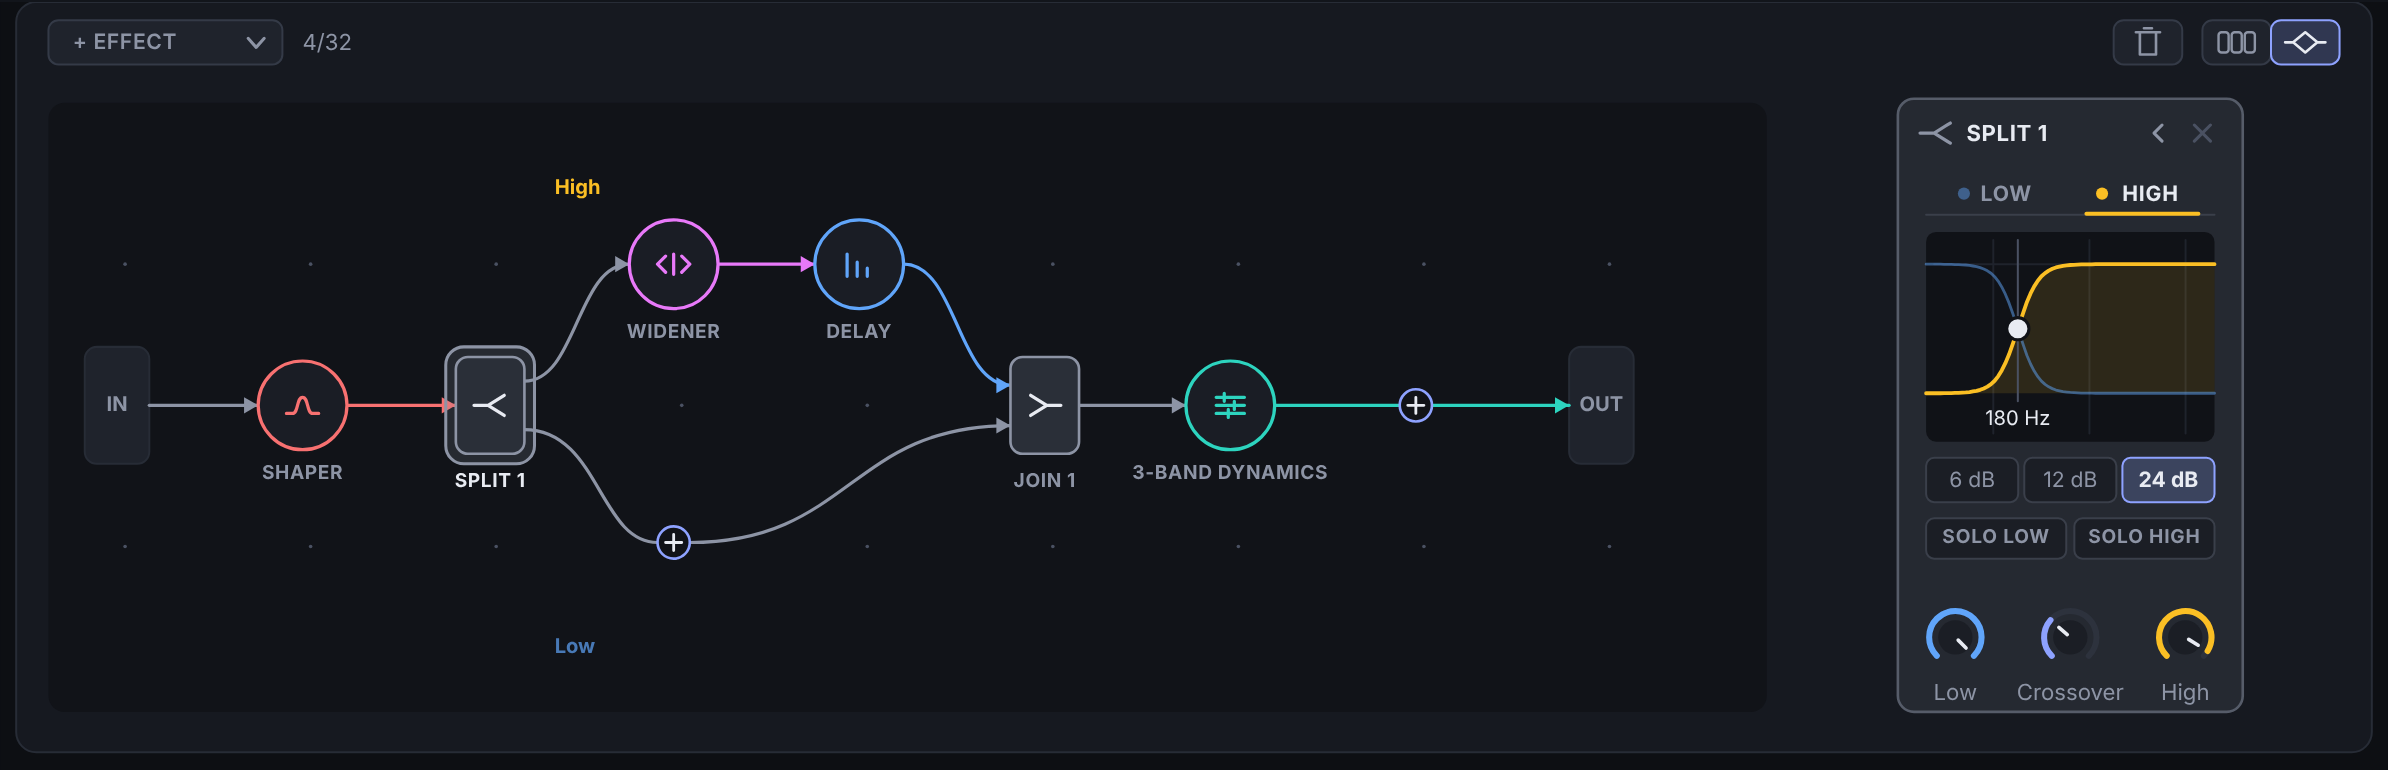
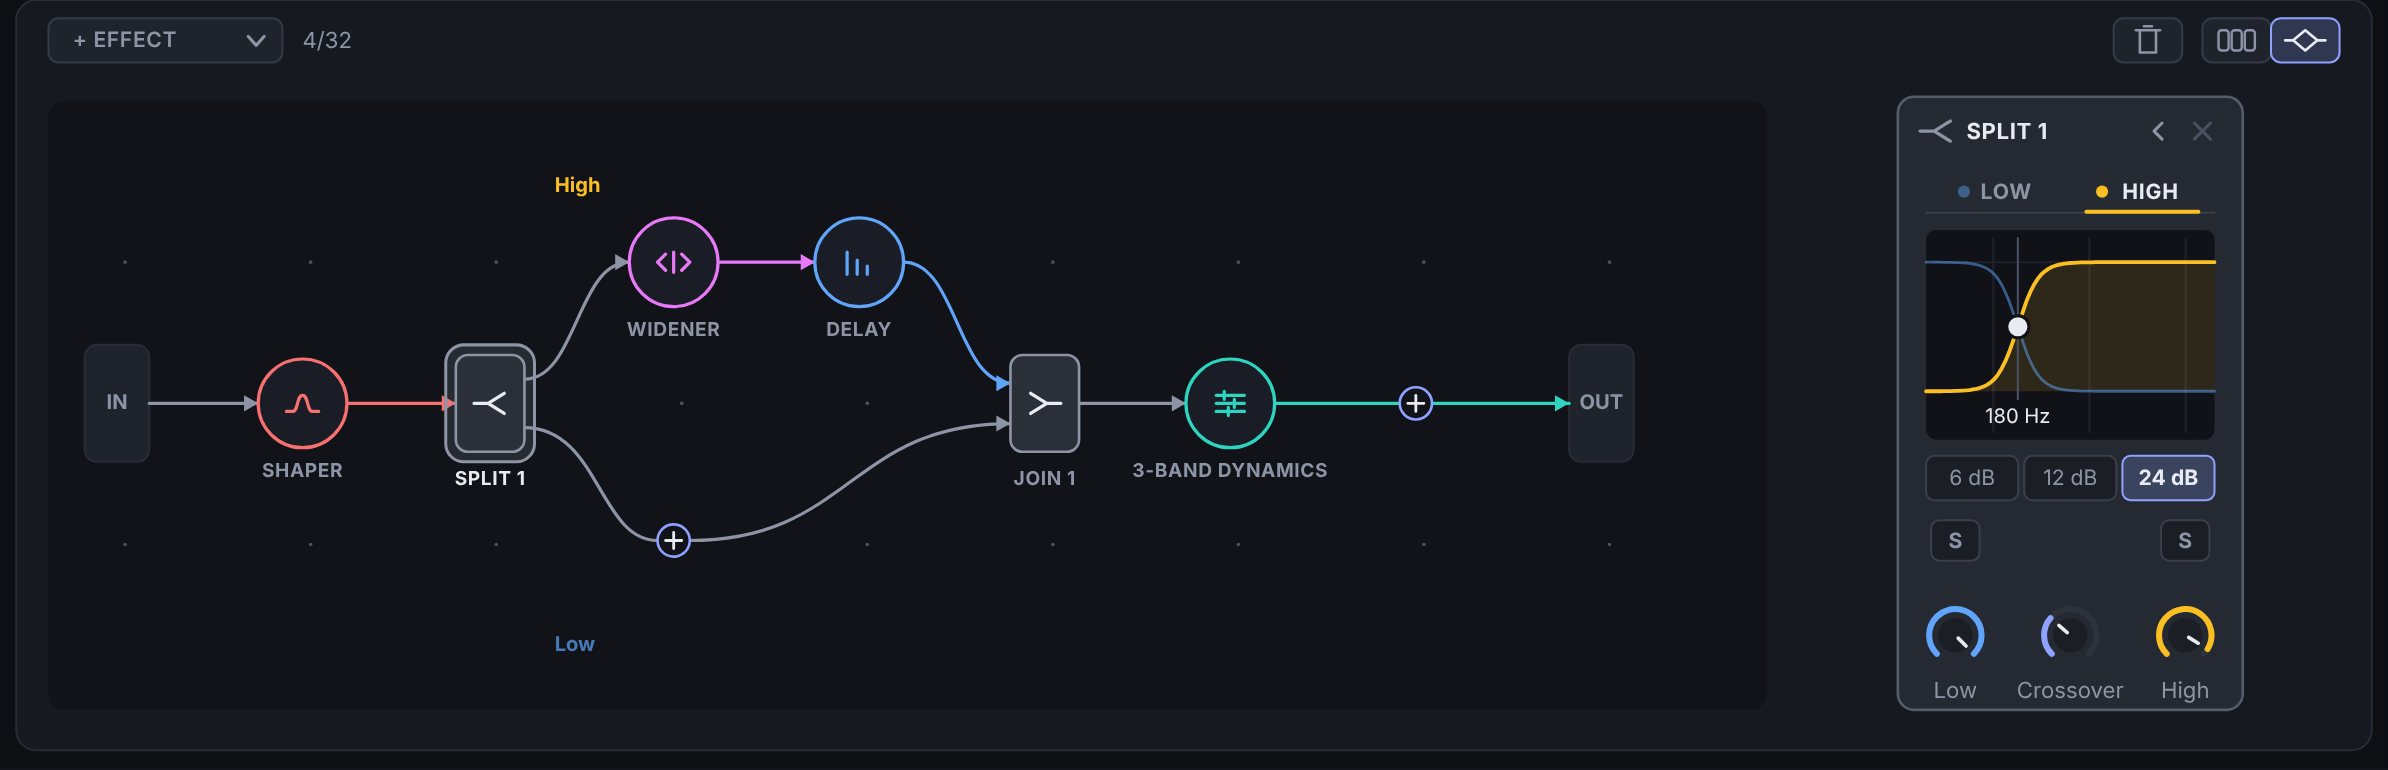
Split container drafts: solo as a plain S button over each band's knob
Claude-Session: https://claude.ai/code/session_012YakMWtkYBtijGb8HJ8dkx

diff --git a/docs/drafts/fx-split-chain/index.html b/docs/drafts/fx-split-chain/index.html
@@ -92,7 +92,7 @@ ul.dense li::marker { color: var(--ink-dim); }
         <li><div><h3>Band tabs: LOW | HIGH</h3><p>Drawn like the operator page's ENVELOPE / UNISON / SCOPE tabs: names on a line, the shown tab's underline in its band's color (blue for low, amber for high, the graph's band colors). A tab whose band is hidden shows its effect count, faint. The wheel switches tabs, and so does holding a dragged card over a tab.</p></div></li>
         <li><div><h3>Crossover display</h3><p>Both bands' responses with the shown band's curve filled, and a handle on the crossover that drags across it. A double-click resets it to 250 Hz. It's 104 px tall, shorter than in PR #37's split card, to make room for the solos.</p></div></li>
         <li><div><h3>Slope: 6 | 12 | 24 dB</h3><p>The split card's segmented switch. The wheel steps along it.</p></div></li>
-        <li><div><h3>SOLO LOW | SOLO HIGH</h3><p>The join's solos, one at a time: soloing one band unsolos the other, and a click on the lit one unsolos it. A soloed button fills with its band's color, and its band's tab shows an S in that color, as the graph's join node does. That way a soloed band shows even while the other band's tab is picked.</p></div></li>
+        <li><div><h3>Solo: S | S</h3><p>A plain rectangular S button over the Low knob and another over the High knob: the join's solos, one at a time. Soloing one band unsolos the other, and a click on the lit one unsolos it. A soloed button fills with its band's color, and its band's tab shows an S in that color, as the graph's join node does. That way a soloed band shows even while the other band's tab is picked.</p></div></li>
         <li><div><h3>Low · Crossover · High</h3><p>Low and High are the join's band levels (0 dB down to −60 dB, silence), so the chain view has no join card. Crossover is the split's knob. All three take modulation and right-click menus like any knob, and the MODS view still lists them as Split 1 Crossover, Join 1 Low and Join 1 High.</p></div></li>
         <li><div><h3>Grey column and outline</h3><p>A neutral grey: splits and joins are already grey in the graph, because they shape the line rather than the sound. The outline's corners are 11 px against the cards' 8, so the gap between them stays even.</p></div></li>
         <li><div><h3>Add placeholder</h3><p>A narrow dashed card in the same neutral grey as the chain's add-effect card. A click opens the list of effects (effects only: a split can't go inside a band), and the one picked goes at the band's end.</p></div></li>
@@ -106,7 +106,7 @@ ul.dense li::marker { color: var(--ink-dim); }
           <tr><td>Container outline</td><td>5 px outside the cards on every side: <code>kFxTop − 5</code> to the cards' bottom <code>+ 5</code></td><td>"Very slightly larger": it fits in the 22 px gap and above the scrollbar.</td></tr>
           <tr><td>Column</td><td>One card place: 171 px of controls plus the 5 px edge</td><td>The first inner card lands on the chain's grid of card places.</td></tr>
           <tr><td>Crossover display</td><td><code>143 × 104</code> px</td><td>Shorter than PR #37's split card's, leaving room for the solo row.</td></tr>
-          <tr><td>Solo row</td><td>Two buttons, <code>69.5 × 20</code> px, 4 px apart, 8 px under the slope</td><td>Left for low and right for high, like the tabs and the knobs.</td></tr>
+          <tr><td>Solo buttons</td><td>Two S buttons, <code>24 × 20</code> px, 10 px under the slope, each centered over its band's knob</td><td>Each one sits with the level it belongs to: low on the left, high on the right.</td></tr>
           <tr><td>Placeholder</td><td><code>64 × 304</code> px, the add-effect card's dashed <code>kFaint</code> outline</td><td>Narrower than the chain's dashed card, so an empty band costs little room.</td></tr>
           <tr><td>Column knobs</td><td>Centers at card <code>y + 267</code>, labels at <code>+ 293</code></td><td>The same row as the bottom knobs on the compressor, delay and reverb cards.</td></tr>
           <tr><td>Grey</td><td>Fill <code>#252931</code>, outline <code>#565C69</code> (Midnight)</td><td>New palette entries per theme, close to <code>kDim</code>, the split color, at low strength.</td></tr>
@@ -136,7 +136,7 @@ ul.dense li::marker { color: var(--ink-dim); }
           <tr><td>The container card</td><td>A split node, its two band rows and its join node</td><td>The split's and the sum's <code>Used</code>; wires</td></tr>
           <tr><td>The container's grey column</td><td>The card of the split or the join picked: the same component</td><td>All of the rows below</td></tr>
           <tr><td>Crossover display, Slope, Crossover knob</td><td>The same controls on the card</td><td><code>SplitParam::Low</code>, <code>SplitParam::Slope</code></td></tr>
-          <tr><td>SOLO LOW | SOLO HIGH</td><td>The same buttons; the join node's S badge</td><td><code>SumParam::SoloLow</code>, <code>SoloHigh</code></td></tr>
+          <tr><td>The two S buttons</td><td>The same buttons; the join node's S badge</td><td><code>SumParam::SoloLow</code>, <code>SoloHigh</code></td></tr>
           <tr><td>Low and High knobs</td><td>The same knobs on the card</td><td>The levels of the join's two input wires (dB)</td></tr>
           <tr><td>The cards in a band, in order</td><td>The nodes along that band's row</td><td>Wires from the split's band port through the effects into the join</td></tr>
           <tr><td>The cards before and after the container</td><td>The main line</td><td>Wires from IN to OUT</td></tr>
@@ -421,11 +421,12 @@ function splitControls(px, o) {
     s += R(x0, sy, sw, 22, { r: 4, fill: sel ? C.accent : C.greyInset, fop: sel ? 0.22 : 1, stroke: sel ? C.accent : C.greyRule, sw: 1 });
     s += T(x0 + sw / 2, sy + 11, t, { size: 10.5, fill: sel ? C.text : C.dim, weight: sel ? 700 : 400, anchor: 'middle' });
   });
-  const oy = Y0 + 208, ow = (tw - 4) / 2;
-  [['low', 'SOLO LOW'], ['high', 'SOLO HIGH']].forEach(([b, t], i) => {
-    const on = o.solo === b, x0 = tx + i * (ow + 4);
-    s += R(x0, oy, ow, 20, { r: 4, fill: on ? BAND[b] : C.greyInset, fop: on ? 0.22 : 1, stroke: on ? BAND[b] : C.greyRule, sw: 1 });
-    s += T(x0 + ow / 2, oy + 10, t, { size: 9.5, weight: 700, fill: on ? C.text : C.dim, anchor: 'middle', ls: 0.4 });
+  // Solo: a plain S button over each band's knob.
+  const oy = Y0 + 210;
+  [['low', 0], ['high', 2]].forEach(([b, k]) => {
+    const on = o.solo === b, x0 = third(px, CARD_W, k) - 12;
+    s += R(x0, oy, 24, 20, { r: 4, fill: on ? BAND[b] : C.greyInset, fop: on ? 0.22 : 1, stroke: on ? BAND[b] : C.greyRule, sw: 1 });
+    s += T(x0 + 12, oy + 10, 'S', { size: 10.5, weight: 700, fill: on ? C.text : C.dim, anchor: 'middle' });
   });
   const kv = db => 1 + db / 60;
   s += knob(third(px, CARD_W, 0), Y0 + 267, 'Low', kv(o.lowDb ?? 0), BAND.low, { body: C.greyInset });
@@ -575,7 +576,7 @@ graphView('fig-graph-join', 'join');
   marks += mark(2, px + 14, Y0 + 48, Y0 + 52);
   marks += mark(3, px + 14, Y0 + 118, Y0 + 118);
   marks += mark(4, px + 14, Y0 + 189, Y0 + 184);
-  marks += mark(5, px + 14, Y0 + 218, Y0 + 218);
+  marks += mark(5, third(px, CARD_W, 0) - 12, Y0 + 220, Y0 + 220);
   marks += mark(6, px + 18, Y0 + 267, Y0 + 256);
   marks += mark(7, px - 5, Y0 + 290, Y0 + 294);
   marks += L(sc.phX + sc.phW / 2, Y0 + 196, sc.phX + sc.phW / 2, Y0 + 228, C.note, 1.2) + Ci(sc.phX + sc.phW / 2, Y0 + 196, 2.5, { fill: C.note })
